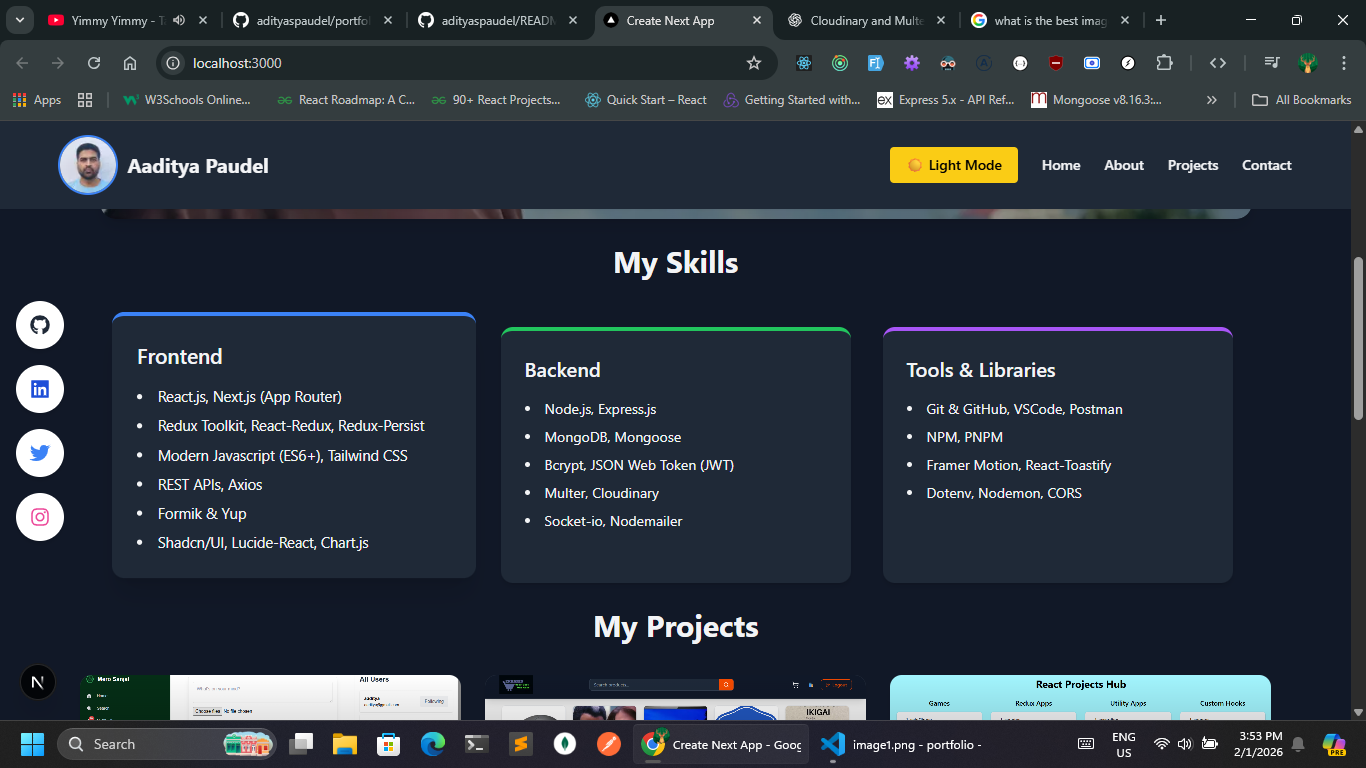
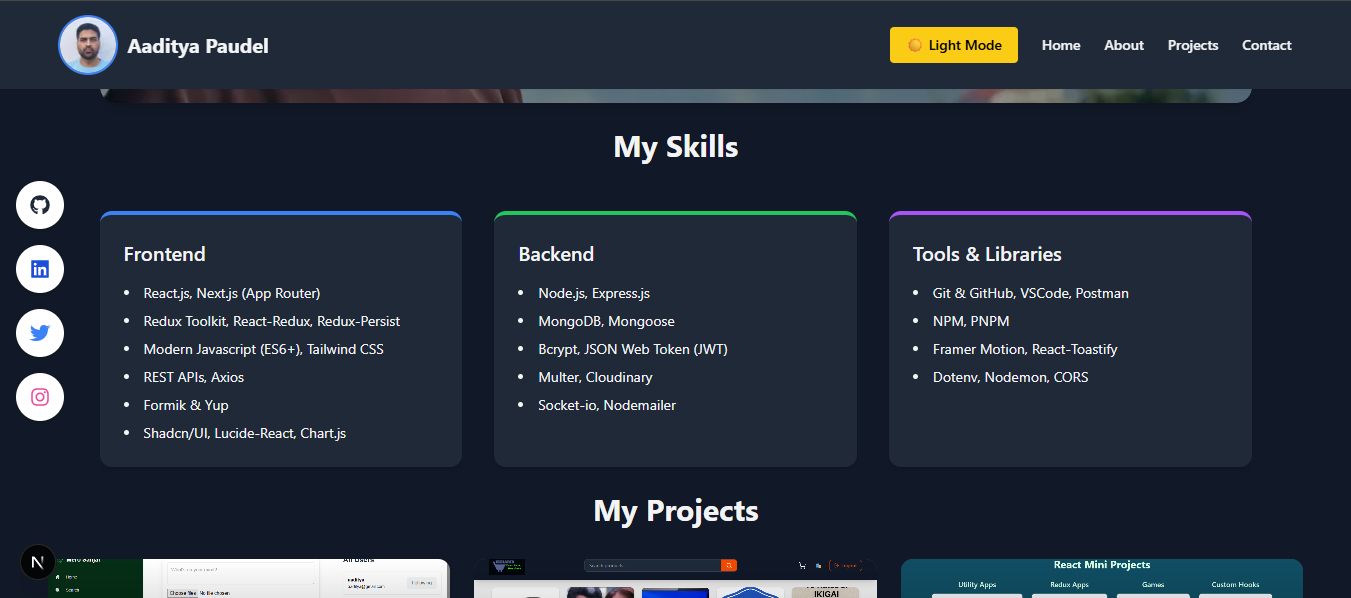
readme.md updated

diff --git a/client/src/app/home/page.js b/client/src/app/home/page.js
@@ -404,7 +404,7 @@ export default function WelcomeHome() {
 							title="MiniProjects"
 							githubLink="https://github.com/adityaspaudel/miniProjects"
 							deployLink="https://miniprojectsfe.vercel.app/"
-							imagess={`/miniprojects2.png`}
+							imagess={`/miniprojects.png`}
 							desc="50+ Small React Projects"
 							items={[
 								"Curated collection of React projects using modern practices.",

diff --git a/README.md b/README.md
@@ -30,7 +30,7 @@ This project focuses on **clean architecture, scalability, and smooth UI/UX**, f
 - **Next.js 16**
 - **React 19**
 - **Tailwind CSS**
-- **Material UI (MUI)** + Emotion
+- **Material UI (MUI) + Emotion** 
 - **Radix UI**
 - **Redux Toolkit**
 - **Redux Persist & Logger**
@@ -45,7 +45,7 @@ This project focuses on **clean architecture, scalability, and smooth UI/UX**, f
 - **MongoDB**
 - **Mongoose**
 - **CORS**
-- **dotenv**
+- **Dotenv**
 - **Nodemon**
 
 ---
@@ -54,7 +54,7 @@ This project focuses on **clean architecture, scalability, and smooth UI/UX**, f
 
 ### Frontend
 ```bash
-nextjs/
+client/
  ├── app/
  ├── components/
  ├── lib/
@@ -81,17 +81,17 @@ server/
 ## Start Project
 ```bash
 
-cd nextjs
-npm install
-npm run dev
+cd client
+pnpm install
+pnpm dev
 
 ````
 
 ```bash
 
 cd server
-npm install
-npm run dev
+pnpm install
+npm dev
 
 ```
 
@@ -101,10 +101,10 @@ npm run dev
 ![Screenshot1](./assets/image1.png)
 
 ### Screenshot2
-![Screenshot2](./assets/image22.png)
+![Screenshot2](./assets/image2.png)
 
 ### Screenshot3
-![Screenshot3](./assets/image33.png)
+![Screenshot3](./assets/image3.png)
 
 ### Screenshot4
 ![Screenshot4](./assets/image4.png)
